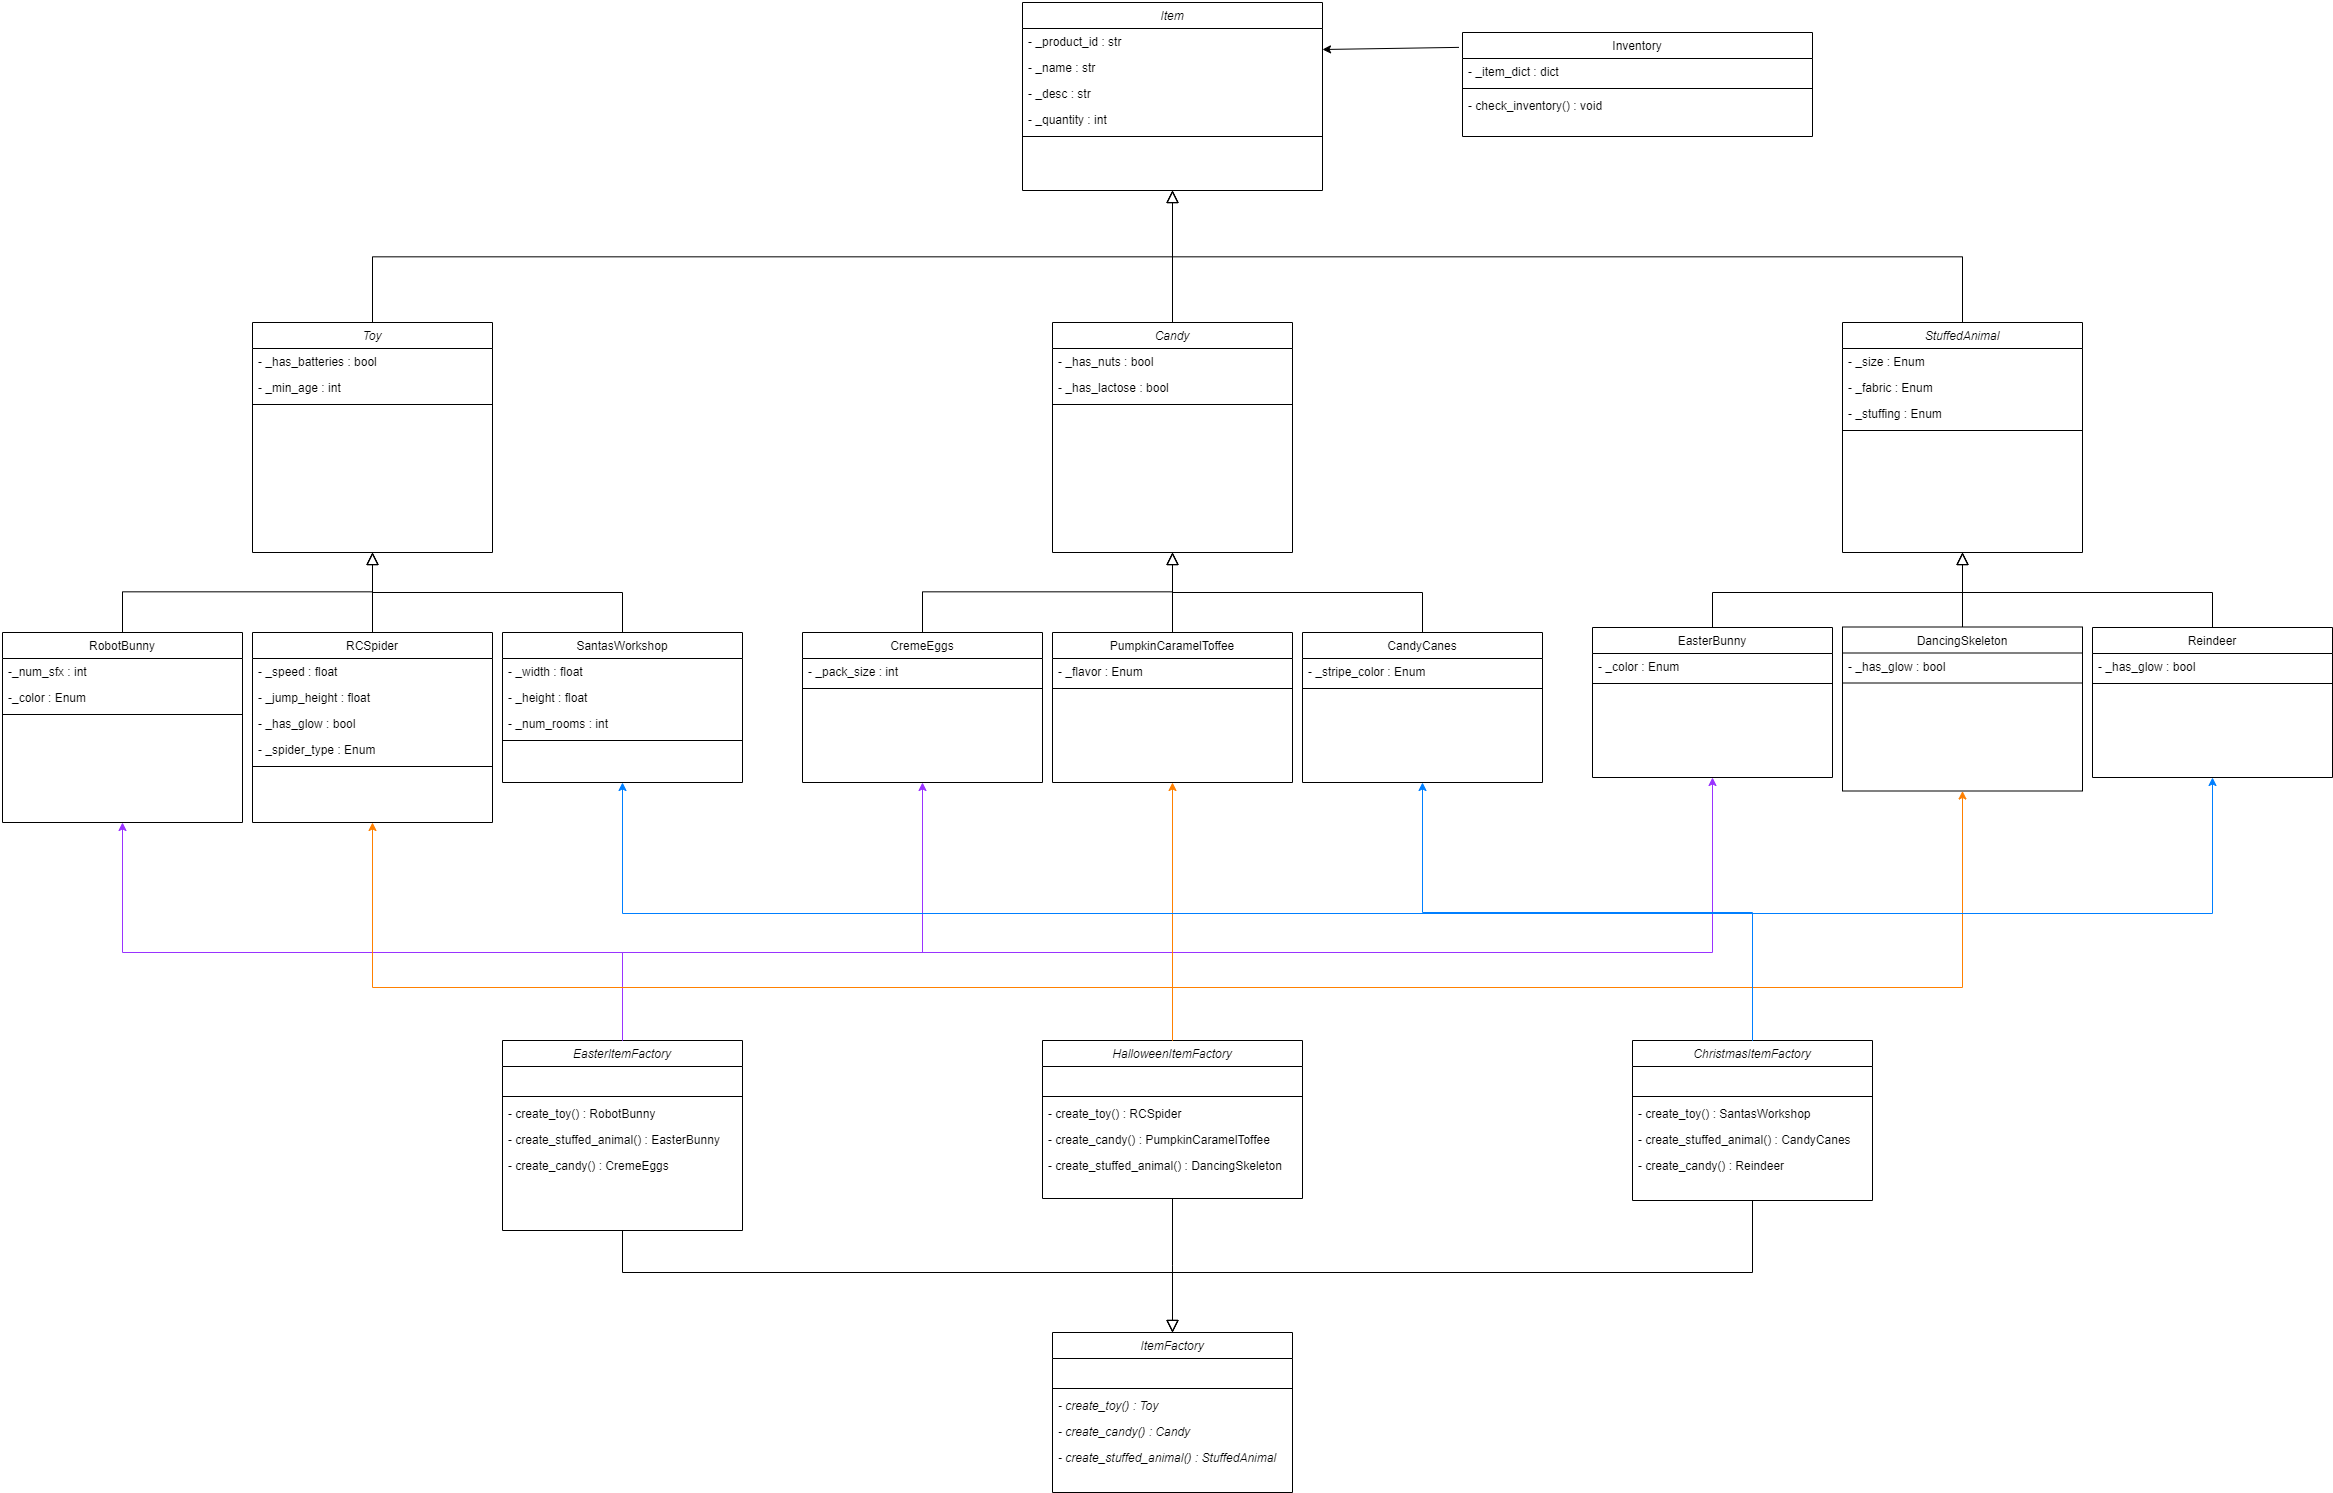
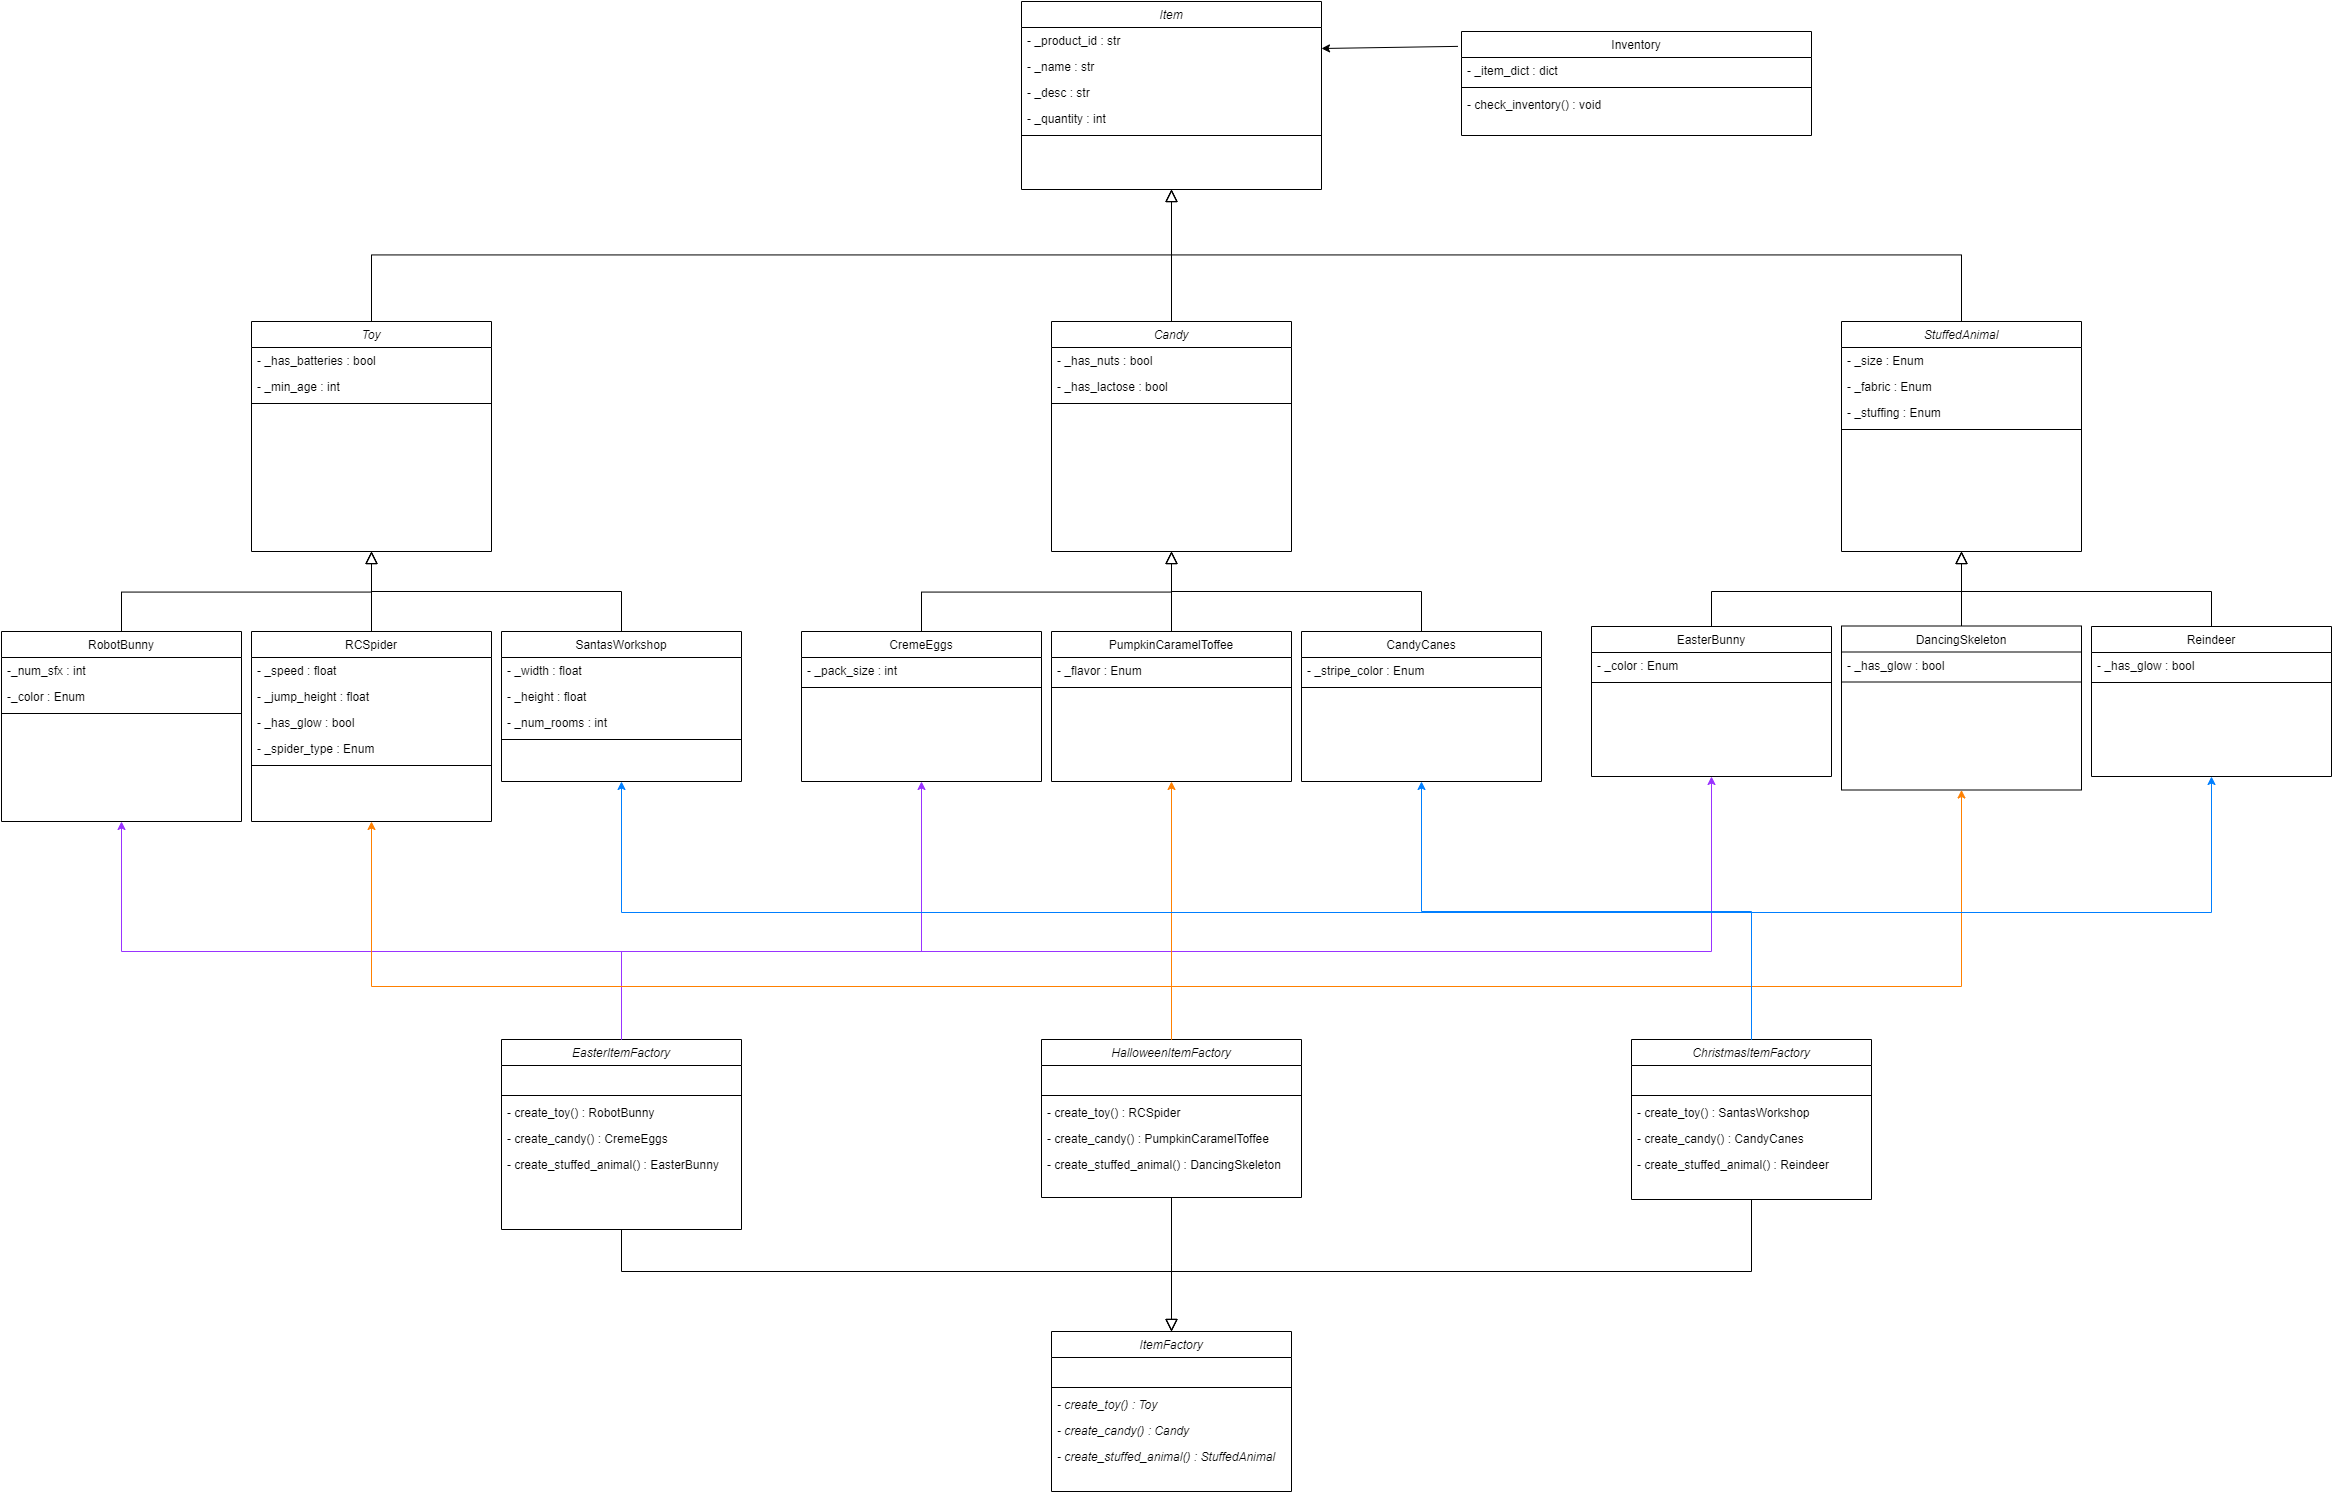
Started ItemFactory hierarchy

diff --git a/Assignments/Assignment2/item_factory.py b/Assignments/Assignment2/item_factory.py
@@ -1,0 +1,65 @@
+from abc import *
+
+
+class ItemFactory(ABC):
+
+    @abstractmethod
+    def create_toy(self):
+        pass
+
+    @abstractmethod
+    def create_candy(self):
+        pass
+
+    @abstractmethod
+    def create_stuffed_animal(self):
+        pass
+
+
+class EasterItemFactory(ABC):
+
+    def create_toy(self):
+        print("Creating Robot Bunny")
+
+    def create_candy(self):
+        print("Creating Creme Eggs")
+
+    def create_stuffed_animal(self):
+        print("Creating Easter Bunny")
+
+
+class HalloweenItemFactory(ABC):
+
+    def create_toy(self):
+        print("Creating RC Spider")
+
+    def create_candy(self):
+        print("Creating Pumpkin Caramel Toffee")
+
+    def create_stuffed_animal(self):
+        print("Creating Dancing Skeleton")
+
+
+class ChristmasItemFactory(ABC):
+
+    def create_toy(self):
+        print("Creating Santa's Workshop")
+
+    def create_candy(self):
+        print("Creating Candy Canes")
+
+    def create_stuffed_animal(self):
+        print("Creating Reindeer")
+
+
+class ItemFactoryType:
+
+    __item_factory_types = {
+        "easter": EasterItemFactory,
+        "halloween": HalloweenItemFactory,
+        "christmas": ChristmasItemFactory
+    }
+
+    @classmethod
+    def get_factory(cls, holiday):
+        return cls.__item_factory_types.get(holiday)()

diff --git a/Assignments/Assignment2/driver.py b/Assignments/Assignment2/driver.py
@@ -2,10 +2,13 @@ from toy import *
 from candy import *
 from stuffed_animal import *
 from inventory import Inventory
+from item_factory import *
 
 
 def main():
     test_items()
+    test_factories()
+
 
 
 def test_items():
@@ -27,6 +30,17 @@ def test_items():
     for i in items:
         inventory._item_dict[i.product_id] = i
     inventory.check_inventory()
+
+
+def test_factories():
+    easter_factory = ItemFactoryType.get_factory("easter")
+    halloween_factory = ItemFactoryType.get_factory("halloween")
+    christmas_factory = ItemFactoryType.get_factory("christmas")
+    factories = [easter_factory, halloween_factory, christmas_factory]
+    for factory in factories:
+        factory.create_toy()
+        factory.create_candy()
+        factory.create_stuffed_animal()
 
 
 if __name__ == '__main__':
